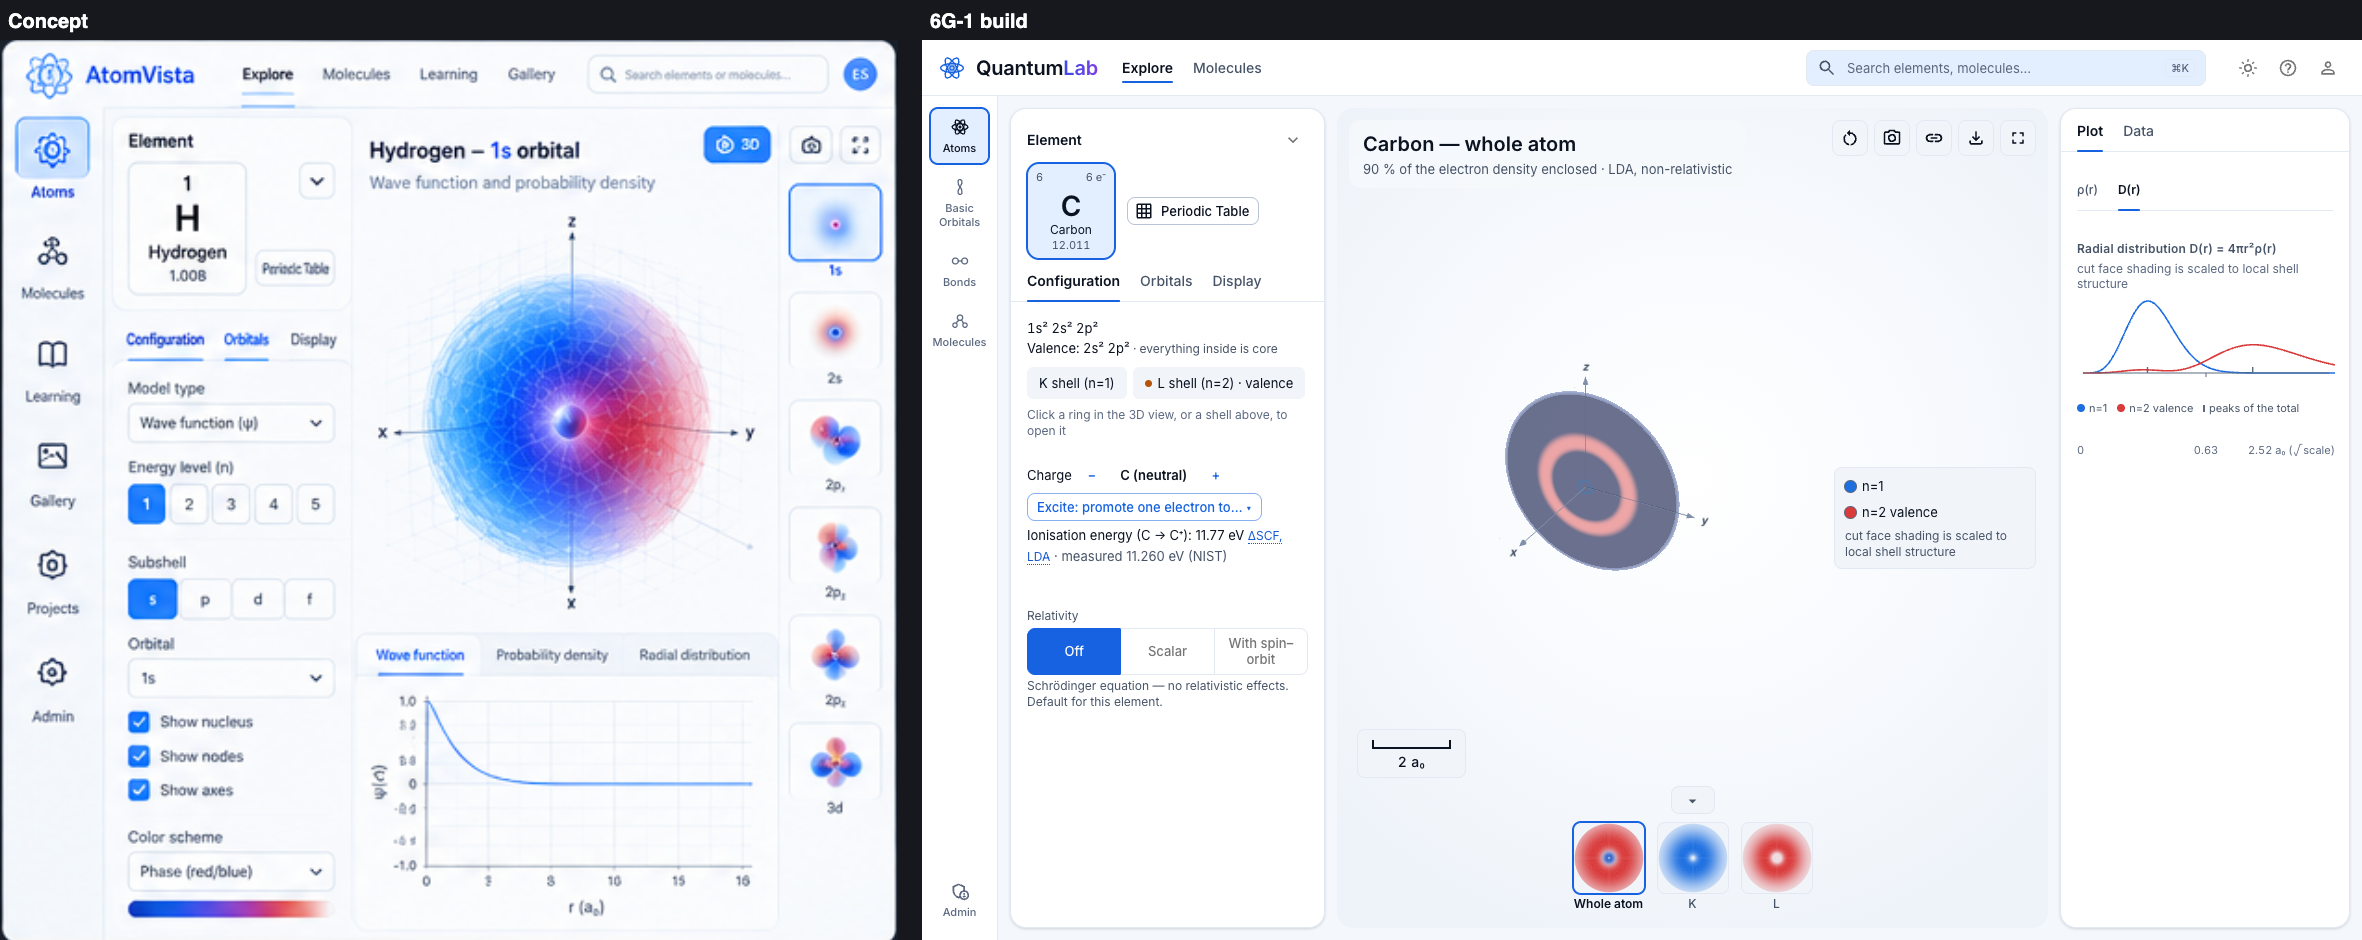
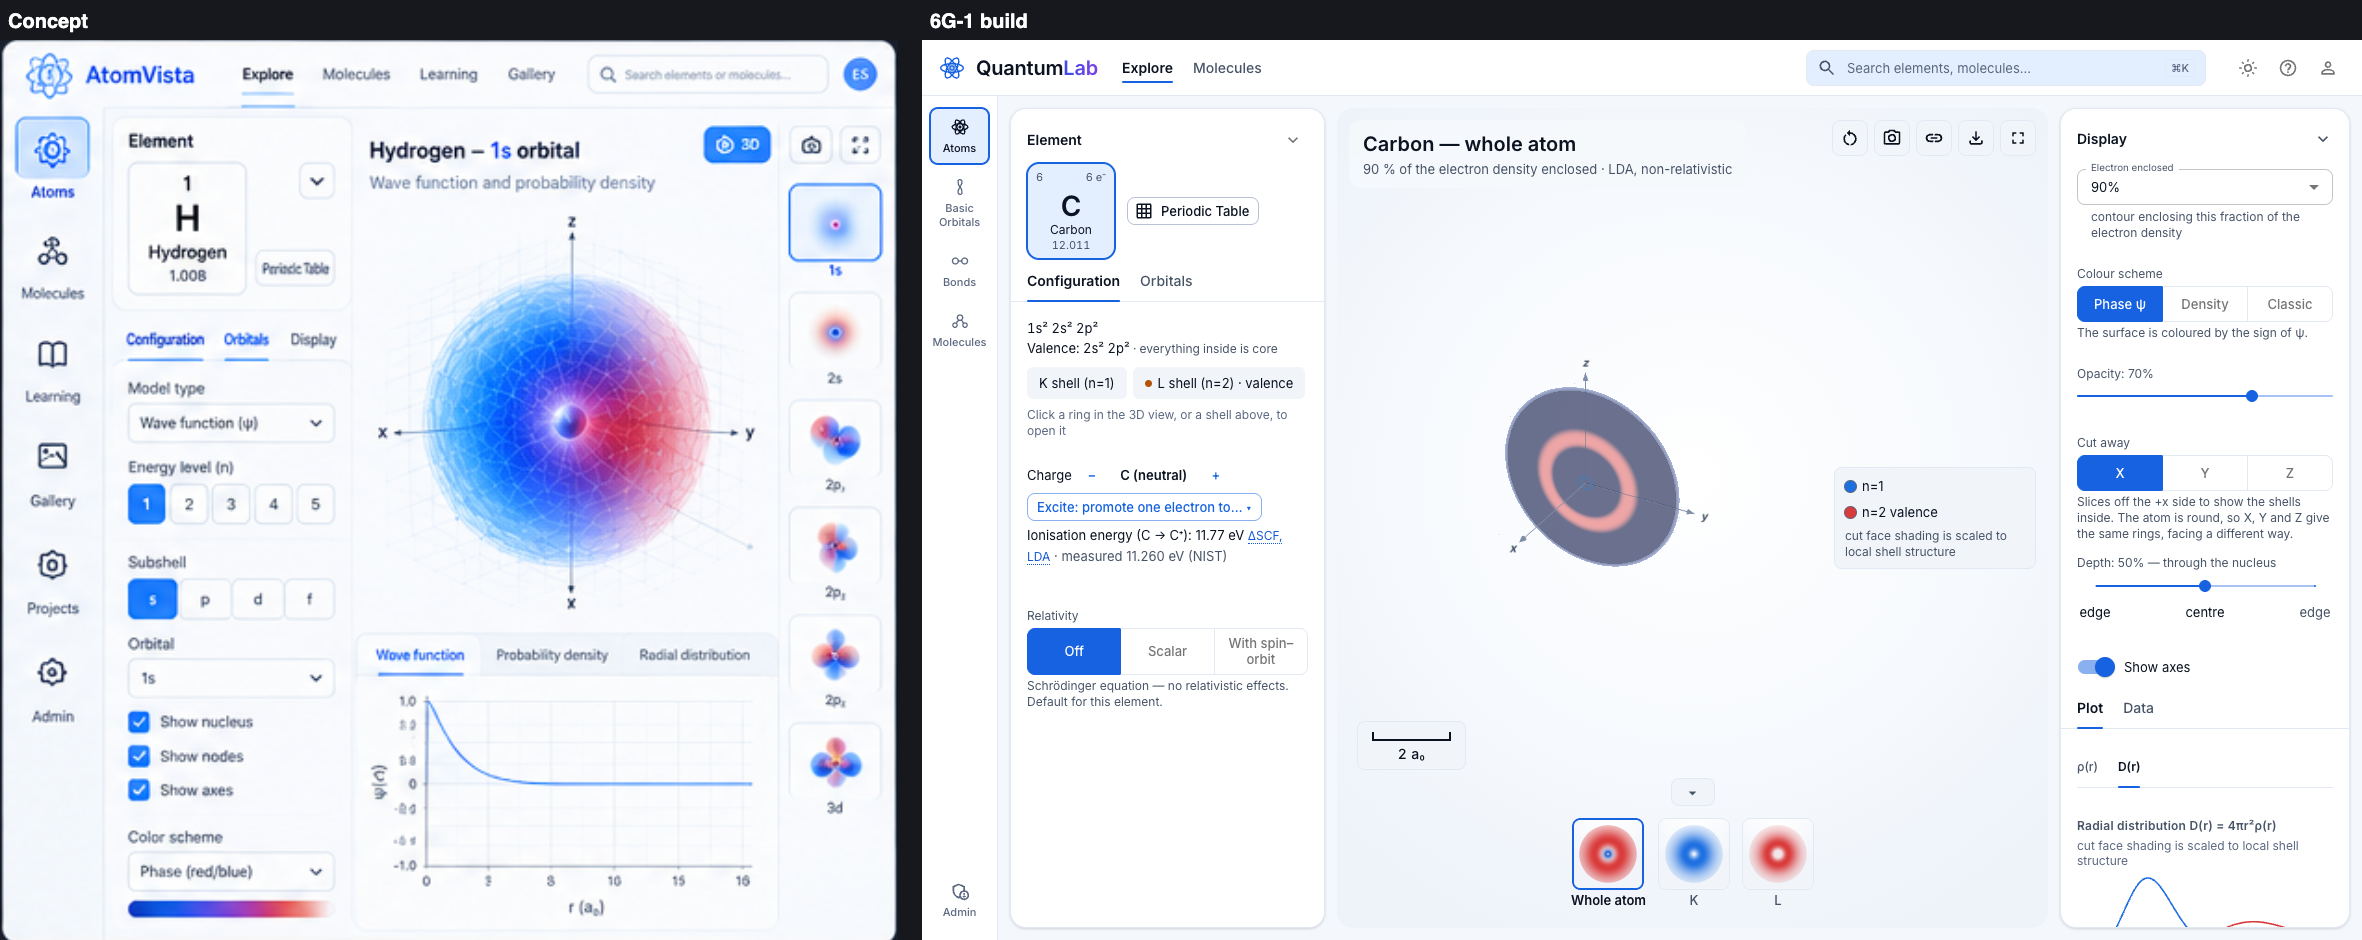
docs(design): 6G-1 composites re-taken after Task 20d -- crisp, evenly framed strip tiles beside the concept (Phase 6G-1)
Task 19's commands and names, --gl metal; 20/20 shots settled, one WebGL canvas, no errors, tokens ΔE 0, boxes exact; science_diff identical to main @ 15feebc. The 8 desktop composites changed; the phone ones are byte-identical (their strip is in the closed sheet).

diff --git a/docs/quantumlab/checks/6G-1/CHECKLIST.md b/docs/quantumlab/checks/6G-1/CHECKLIST.md
@@ -244,3 +244,23 @@ Deep Space is unchanged. All 14 composites were rebuilt from fresh `--gl metal` 
 The Deep Space and whole-atom composites came out byte-identical to the previous re-take. 12/12
 shots `settled=true`, `webglCanvases=1`, `errors=0`, tokens ΔE₀₀ 0, boxes exact.
 `science_diff.mjs` against `origin/main` @ 15feebc: **science text identical to main**.
+
+### Task 20d re-take (strip thumbnails, designer review)
+
+Re-taken 2026-10-13 after Task 20d (ruling R20d). The strip tiles are now box-filtered from a
+supersampled render target (at least 3× the tile's CSS size, 4× MSAA) to a bitmap at exactly the
+tile's device size, and drawn 1:1. Before, a 144 px canvas was shrunk by CSS to 70 px.
+
+- Meshes are 64³ (was 32³).
+- Every bounding sphere is fitted to 80 % of the tile, centred, from the canonical three-quarter view.
+- Tiles use a fixed per-theme light rig and Glow strengths (`GLOW_TUNING[theme].thumb`).
+- Ring glyphs use the same 80 % fill, drawn as gradients.
+- Labels are 13 px.
+- The selected tile has a 2 px selected-edge ring and, in Deep Space, a soft glow (`--ql-shadow-selected-tile`).
+
+Commands: `node tools/design/shoot.mjs --task 20d --scenes c-whole,c-2pz,fe-shell --themes dark,light
+--sizes desktop,phone --gl metal --wait 6000`, plus `--task 20d-dpr2 … --dpr 2`, then Task 19's
+composite loop. Results: 20/20 shots `settled=true`, `webglCanvases=1`, `errors=0`; tokens are ΔE₀₀ 0
+and boxes are exact. `science_diff.mjs` against `origin/main` @ 15feebc: **science text identical to main**.
+The 8 desktop composites changed. The 6 phone composites came out byte-identical, because the
+phone's strip lives in the closed Explore sheet.
